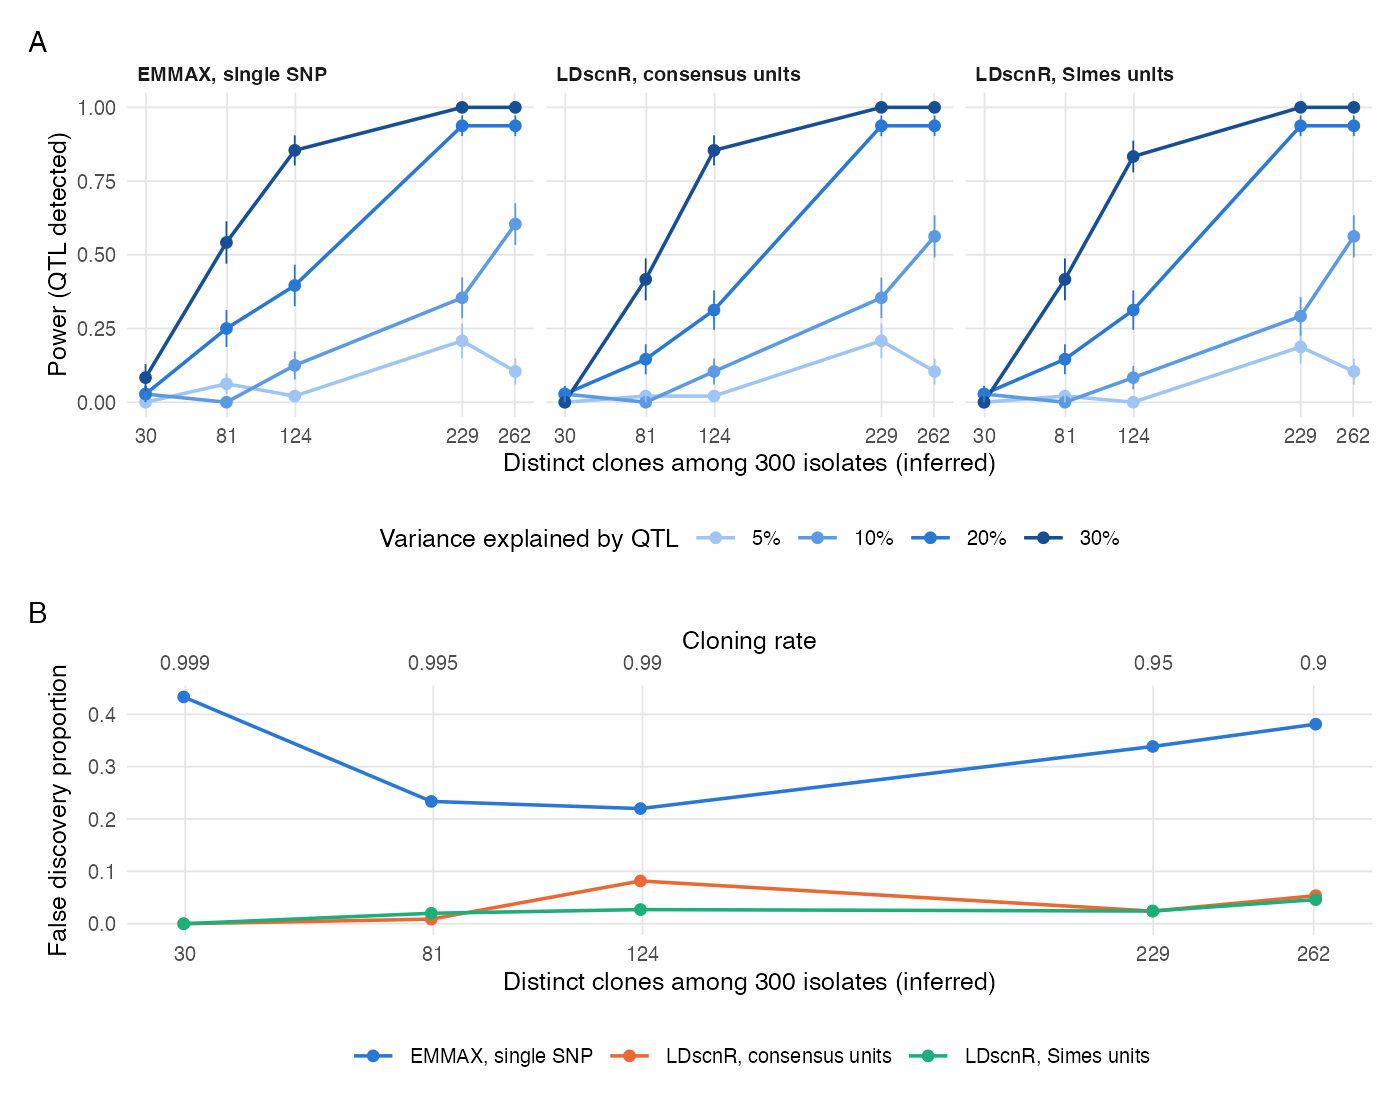
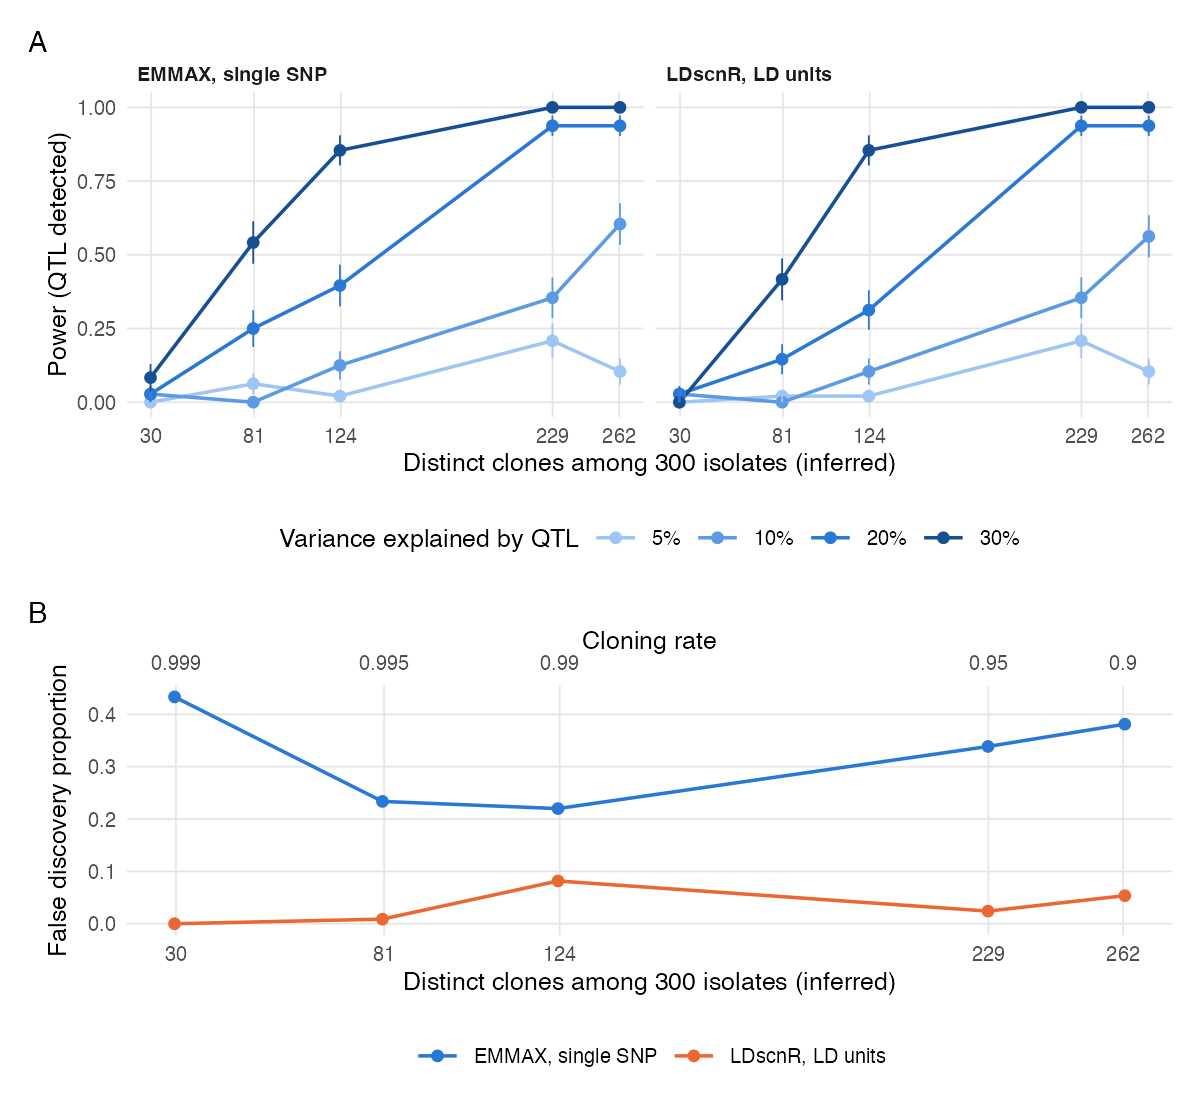
Report LDscnR consensus units only; drop Simes arm from figure and summaries

diff --git a/README.md b/README.md
@@ -31,7 +31,7 @@ Per-replicate results are in `out/res/`, pooled summaries in `out/summary_*.csv`
 |---|---|
 | SLiM model: 4 x 15.75 Mb chromosomes (63 Mb), 4 sites x 1000, island migration 0.005, cloning rate C, mitotic LOH (1% of clonal births, Exp tract mean 100 kb), 4000 generations, 75 isolates sampled per site | `slim/clonal_metapop.slim` |
 | Recapitation (msprime, sexual ancestral population of 4000), neutral mutations mu = 3e-8, r = 1e-8 | `py/ts_to_geno.py` |
-| Two-stage design, phenotypes, LDscnR + EMMAX, scoring | `R/analyse_rep.R` |
+| Two-stage design, phenotypes, LDscnR and EMMAX scans, scoring | `R/analyse_rep.R` |
 | One replicate end to end | `run_one.sh C REP` |
 | Pool + figure | `R/pool_and_plot.R` -> `figures/gwas_power_clonal.{pdf,png}`, `out/summary_*.csv` |
 
@@ -57,17 +57,21 @@ Known limitation: at C = 0.999 (~30 clones) LD-decay fitting failed for one chro
 
 ## Results (out/summary_power.csv, out/summary_fdr.csv)
 
-| Cloning rate | Distinct clones (of 300) | Power, PVE 10% | Power, PVE 20% | Power, PVE 30% | FDP EMMAX SNP | FDP LDscnR consensus / Simes |
-|---|---|---|---|---|---|---|
-| 0.9   | 262 | 0.56-0.60 | 0.94 | 1.00 | 0.38 | 0.05 / 0.05 |
-| 0.95  | 229 | 0.29-0.35 | 0.94 | 1.00 | 0.34 | 0.02 / 0.02 |
-| 0.99  | 124 | 0.08-0.13 | 0.31-0.40 | 0.83-0.85 | 0.22 | 0.08 / 0.03 |
-| 0.995 | 81  | 0.00 | 0.15-0.25 | 0.42-0.54 | 0.23 | 0.01 / 0.02 |
-| 0.999 | 30  | ~0.03 | ~0.03 | 0-0.08 | 0.43 | 0 / 0 |
+Power is given as LDscnR / EMMAX single SNP; FDP is the proportion of reported loci that are false.
 
-Power is similar across the three scans. EMMAX's false discoveries are mostly isolated
-single SNPs: BH at the SNP level does not control the proportion of false *loci*, while the
-LDscnR unit-level test does.
+| Cloning rate | Distinct clones (of 300) | Power, PVE 10% | Power, PVE 20% | Power, PVE 30% | FDP LDscnR | FDP EMMAX |
+|---|---|---|---|---|---|---|
+| 0.9   | 262 | 0.56 / 0.60 | 0.94 / 0.94 | 1.00 / 1.00 | 0.05 | 0.38 |
+| 0.95  | 229 | 0.35 / 0.35 | 0.94 / 0.94 | 1.00 / 1.00 | 0.02 | 0.34 |
+| 0.99  | 124 | 0.10 / 0.13 | 0.31 / 0.40 | 0.85 / 0.85 | 0.08 | 0.22 |
+| 0.995 | 81  | 0.00 / 0.00 | 0.15 / 0.25 | 0.42 / 0.54 | 0.01 | 0.23 |
+| 0.999 | 30  | 0.03 / 0.03 | 0.03 / 0.03 | 0.00 / 0.08 | 0.00 | 0.43 |
+
+LDscnR tests one consensus genotype per LD unit (stage-1 cluster) with EMMAX, controls the FDR
+over units, and assembles significant units into loci. Its power is close to single-SNP EMMAX,
+slightly lower at intermediate numbers of clones, but far fewer of its loci are false: BH at the
+SNP level does not control the proportion of false *loci*, whereas testing LD units does.
+(`R/analyse_rep.R` also computes a Simes-combined unit test, which is not reported.)
 
 ## Licence
 
